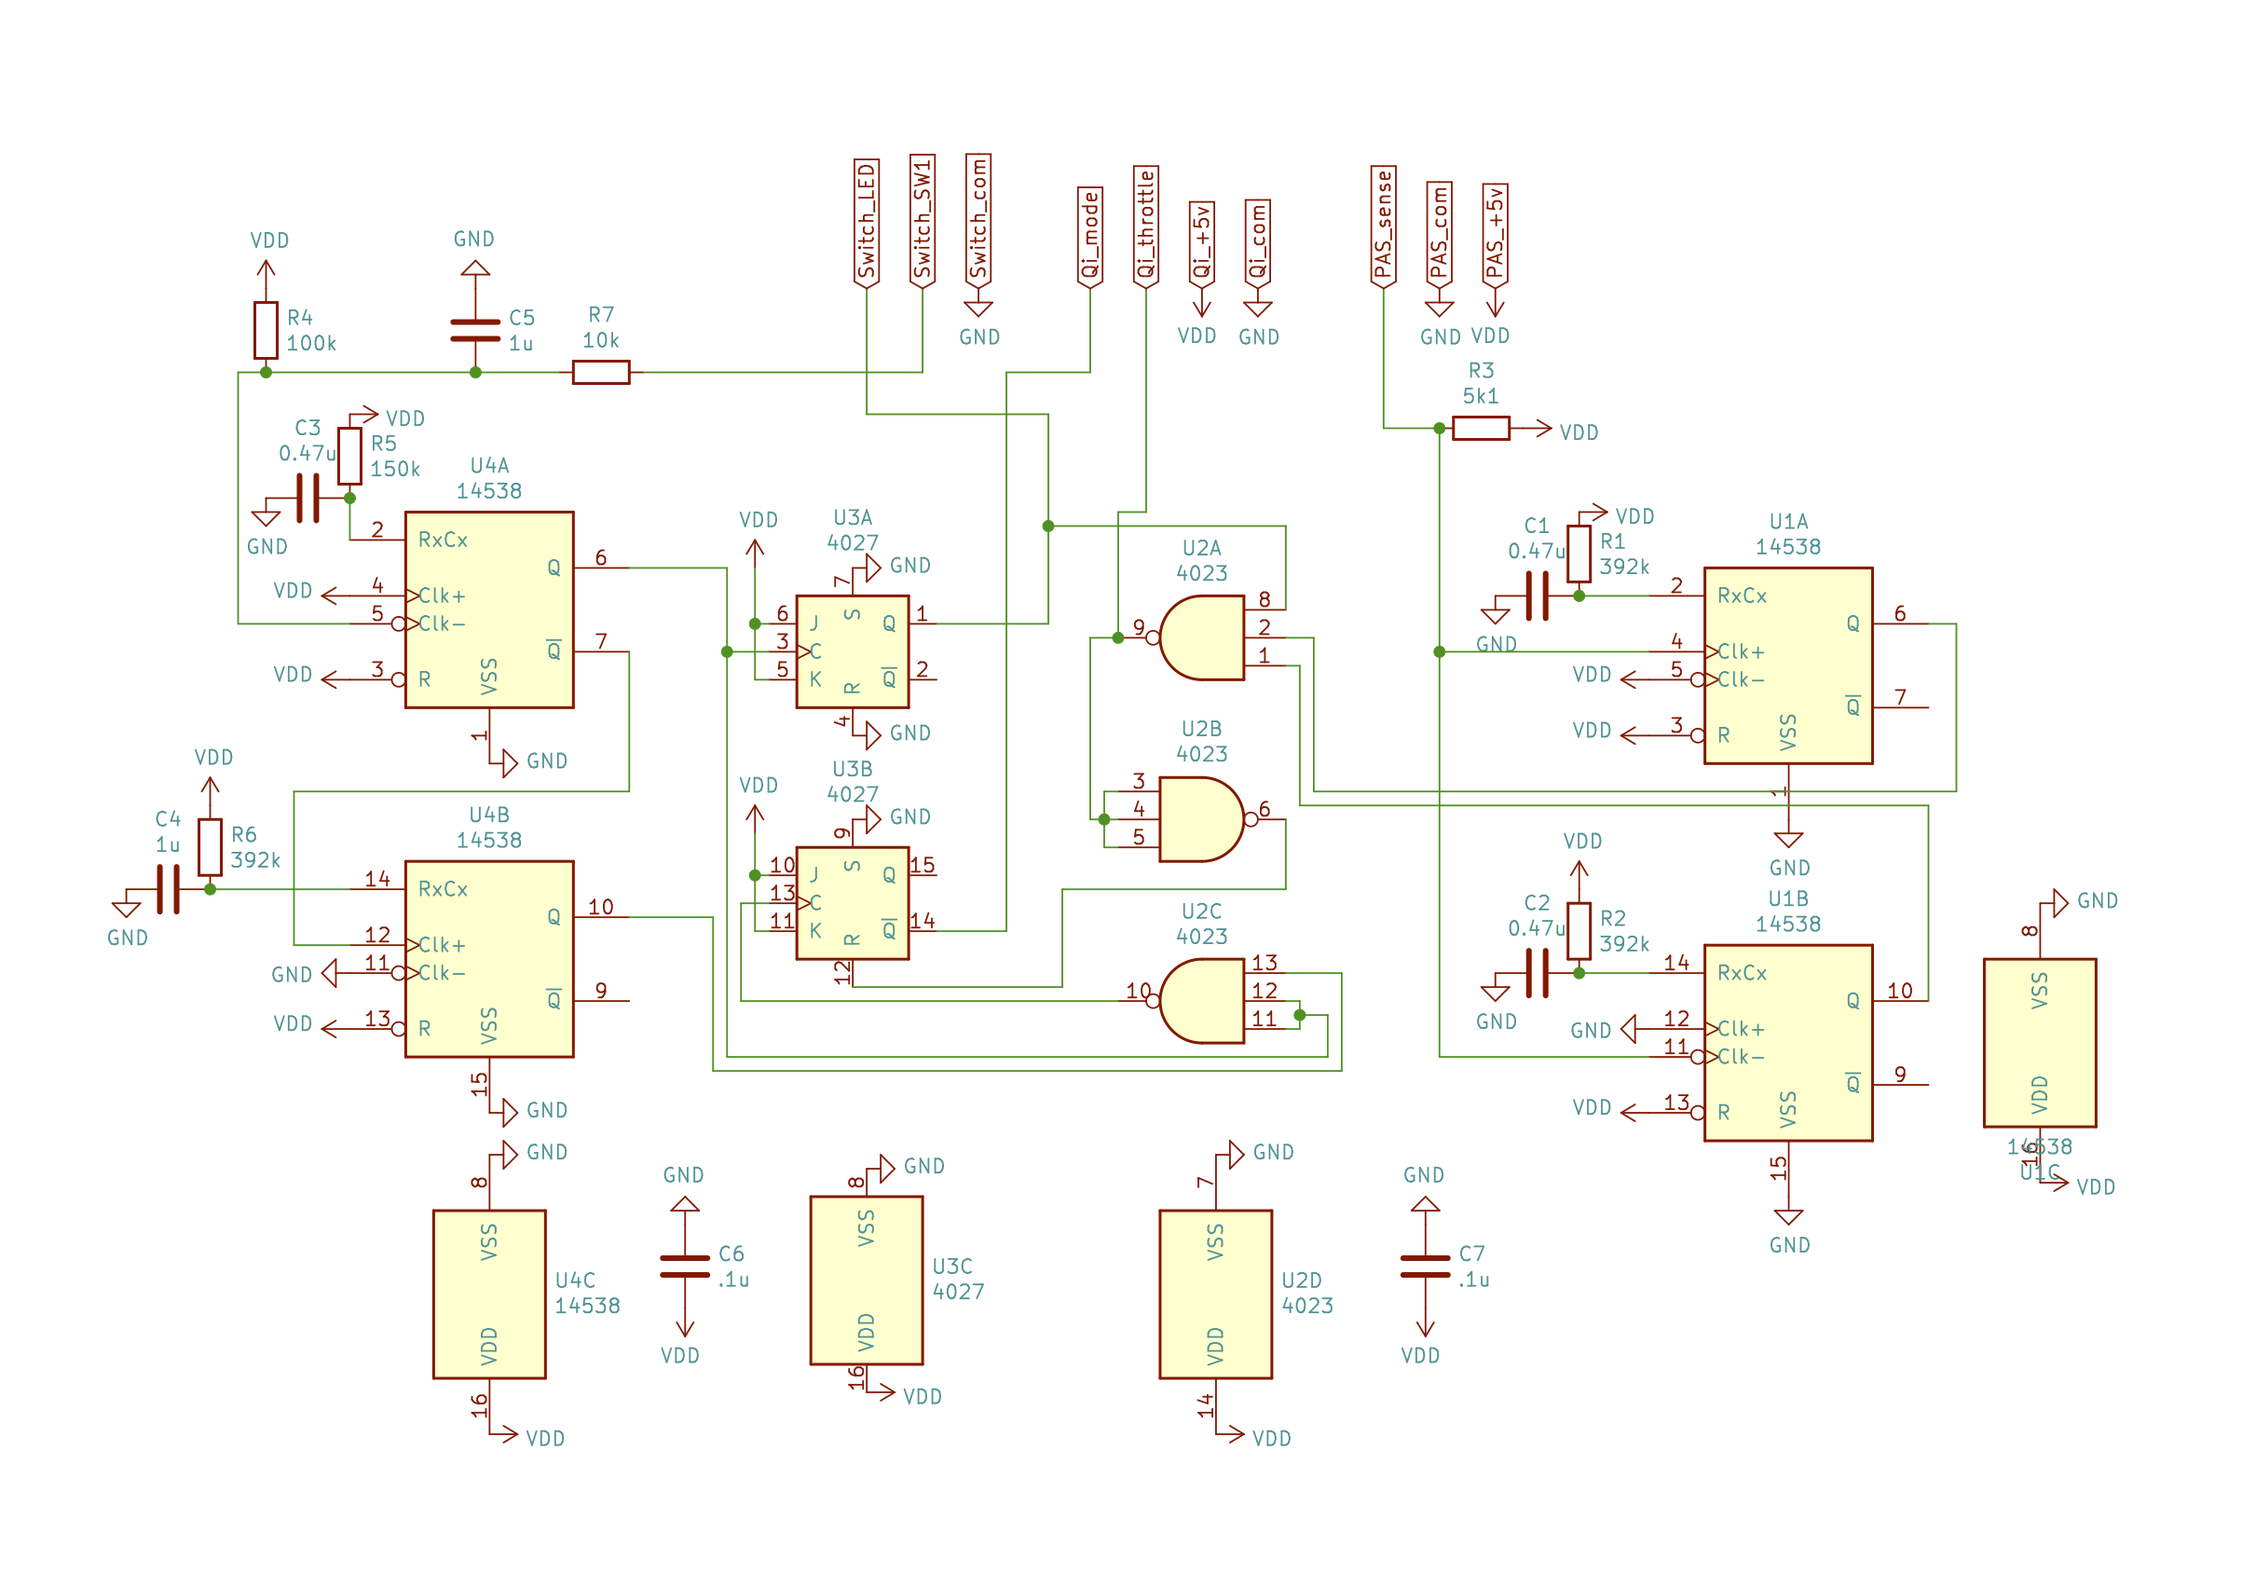
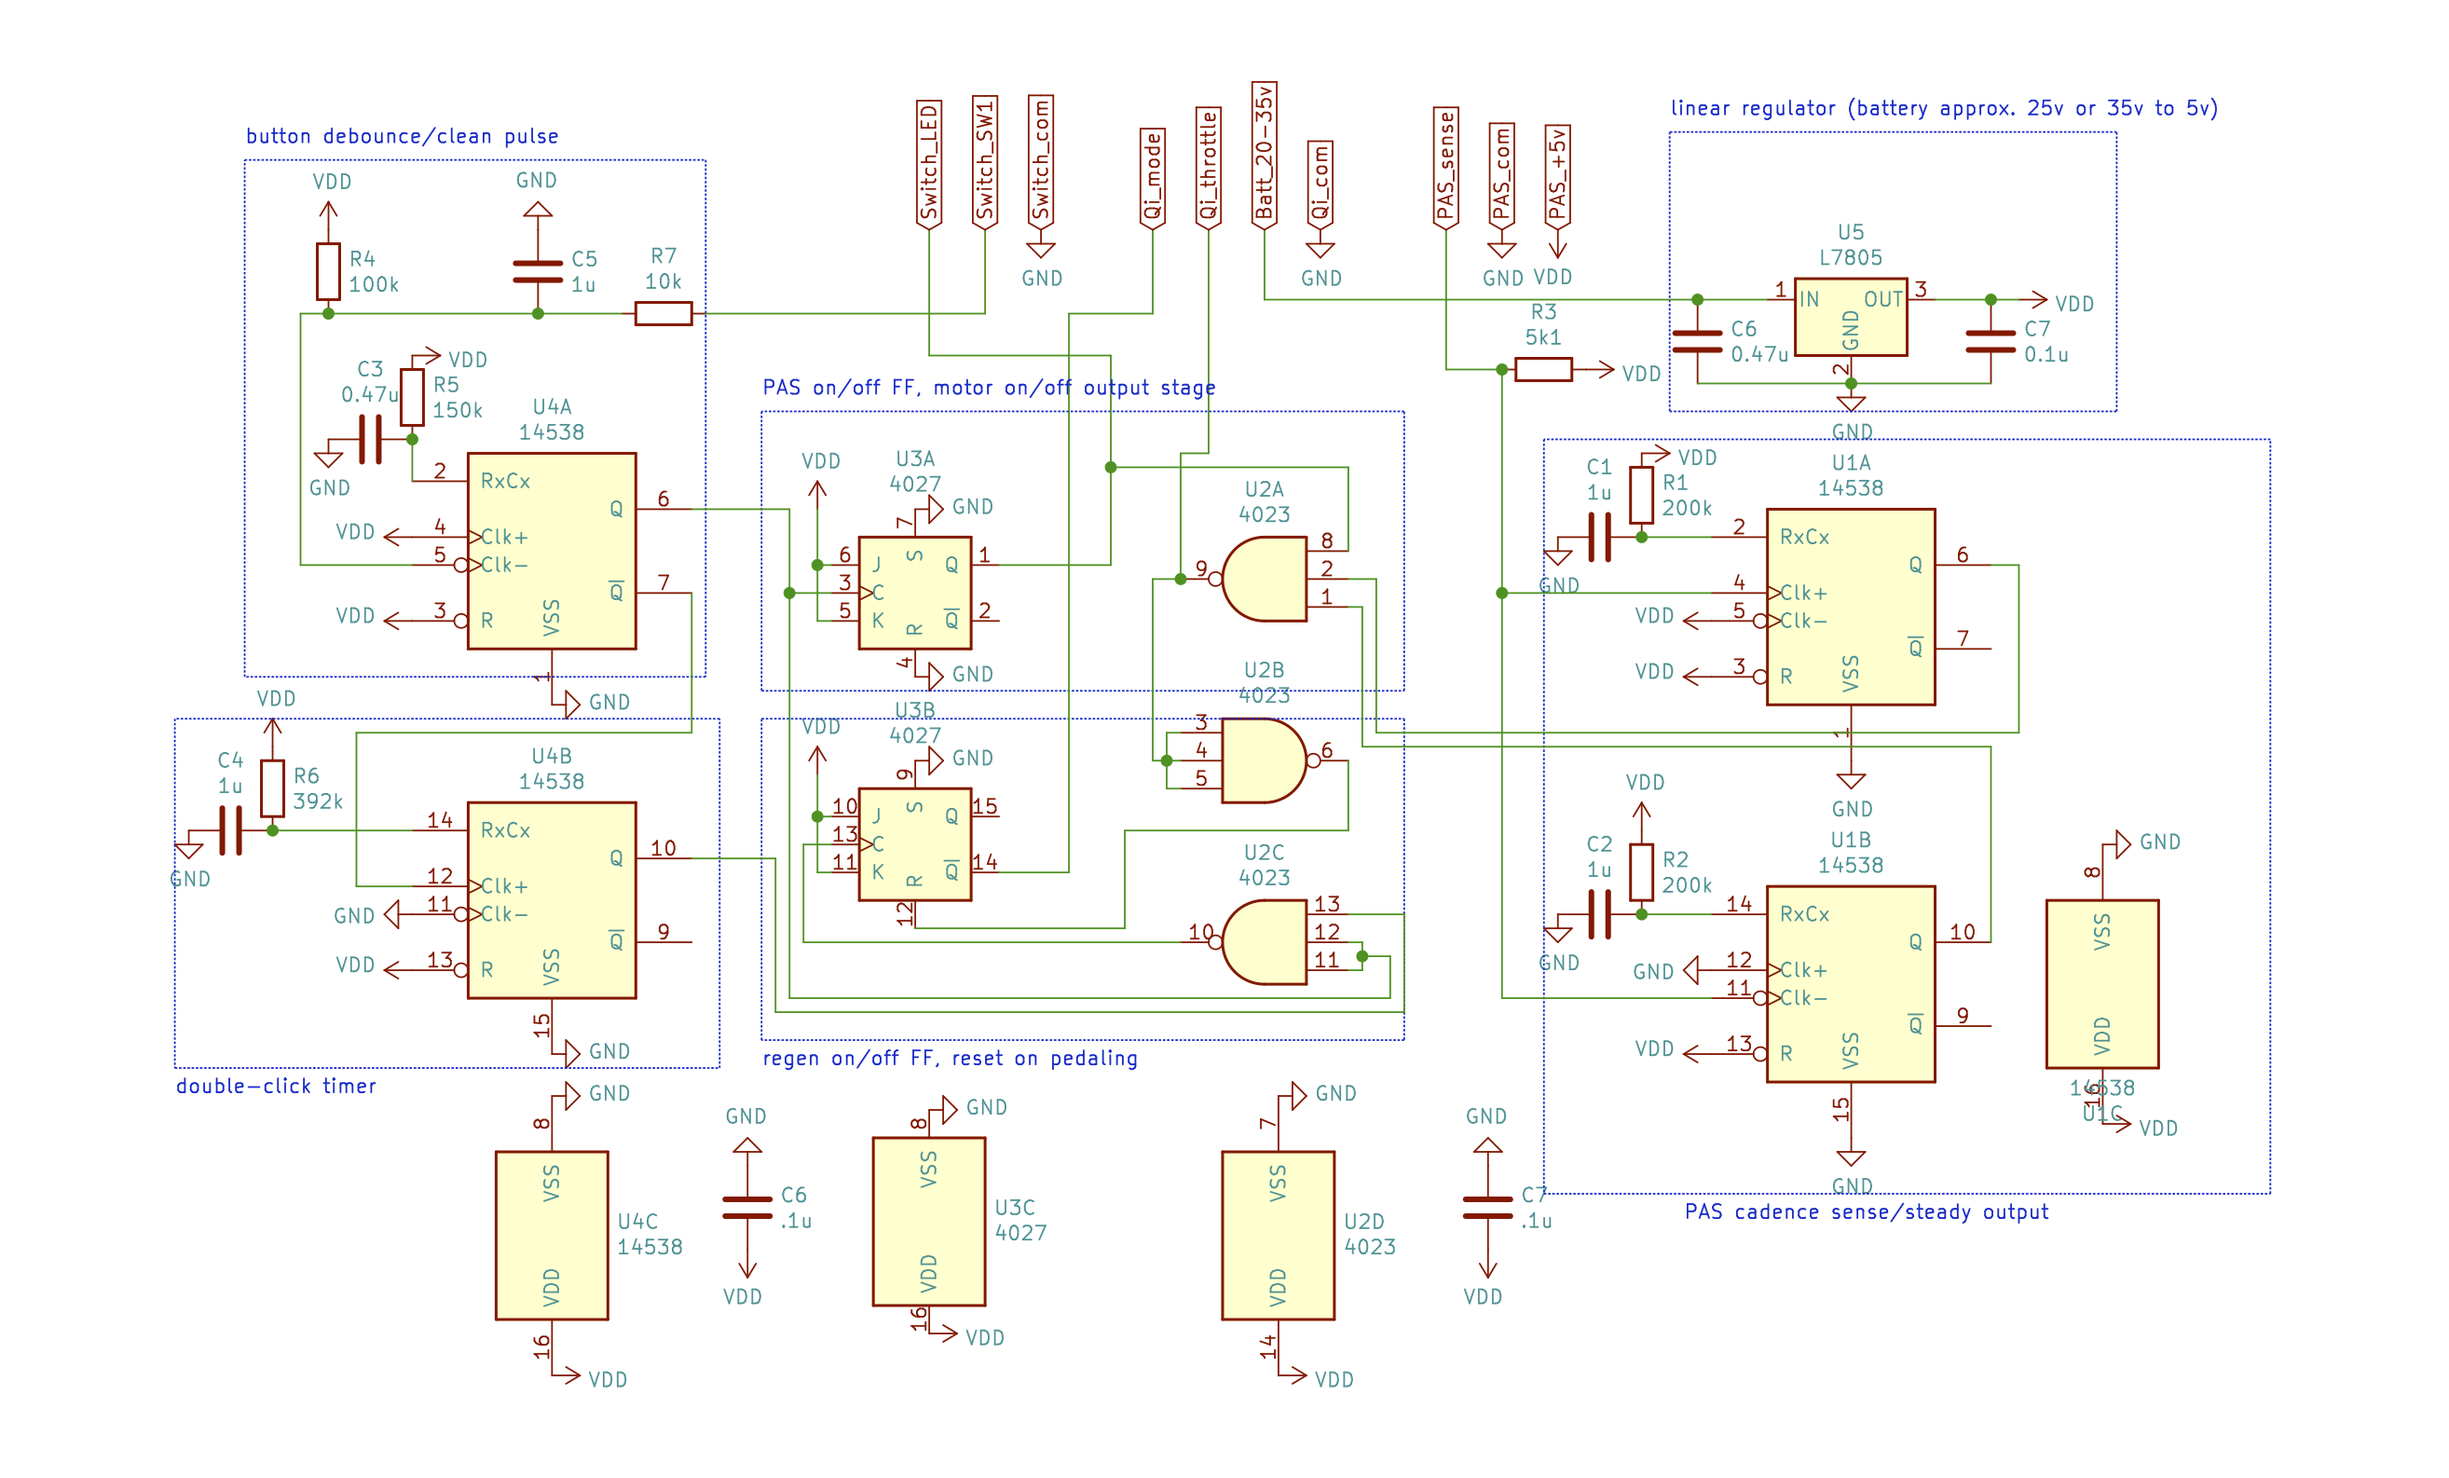
annotate schematic, voltage regulator, photos

diff --git a/digital_logic/README.md b/digital_logic/README.md
@@ -3,7 +3,8 @@
 Built from some 4000-series CMOS chips, this design also implements pedal assist for the Qiroll kit. Single click turns PAS on/off, double-click turns regen on/off (pro) or changes modes (standard). Triple-click changes modes with the pro, but this might be a little touchy.
 
 ### Notes
-* _Working on an update to pull power from the battery directly using a voltage regulator, have a hunch this will fix reliability issues_
+* _Now pulling power from the battery directly using a voltage regulator, this seemed to fix earlier reliability issues_
+    * power consumption should be low enough that a 7805 (or similar) won't run all that hot, but waiting on parts for final test
 * Designed to be compatable with the regen braking on the Pro kit, for use with the standard kit I reccomend connecting Qiroll mode change to the NAND gate directly (pin 10 of the 4023 at U2C), bypassing the flip-flop.
     * the NAND gate wired as an inverter at U2B and connected to the flip-flop reset input is designed to turn off regen when pedaling resumes on the pro kit...
 * Extremely fast double-clicks won't register. But it's easy enough to get a feel for it.
